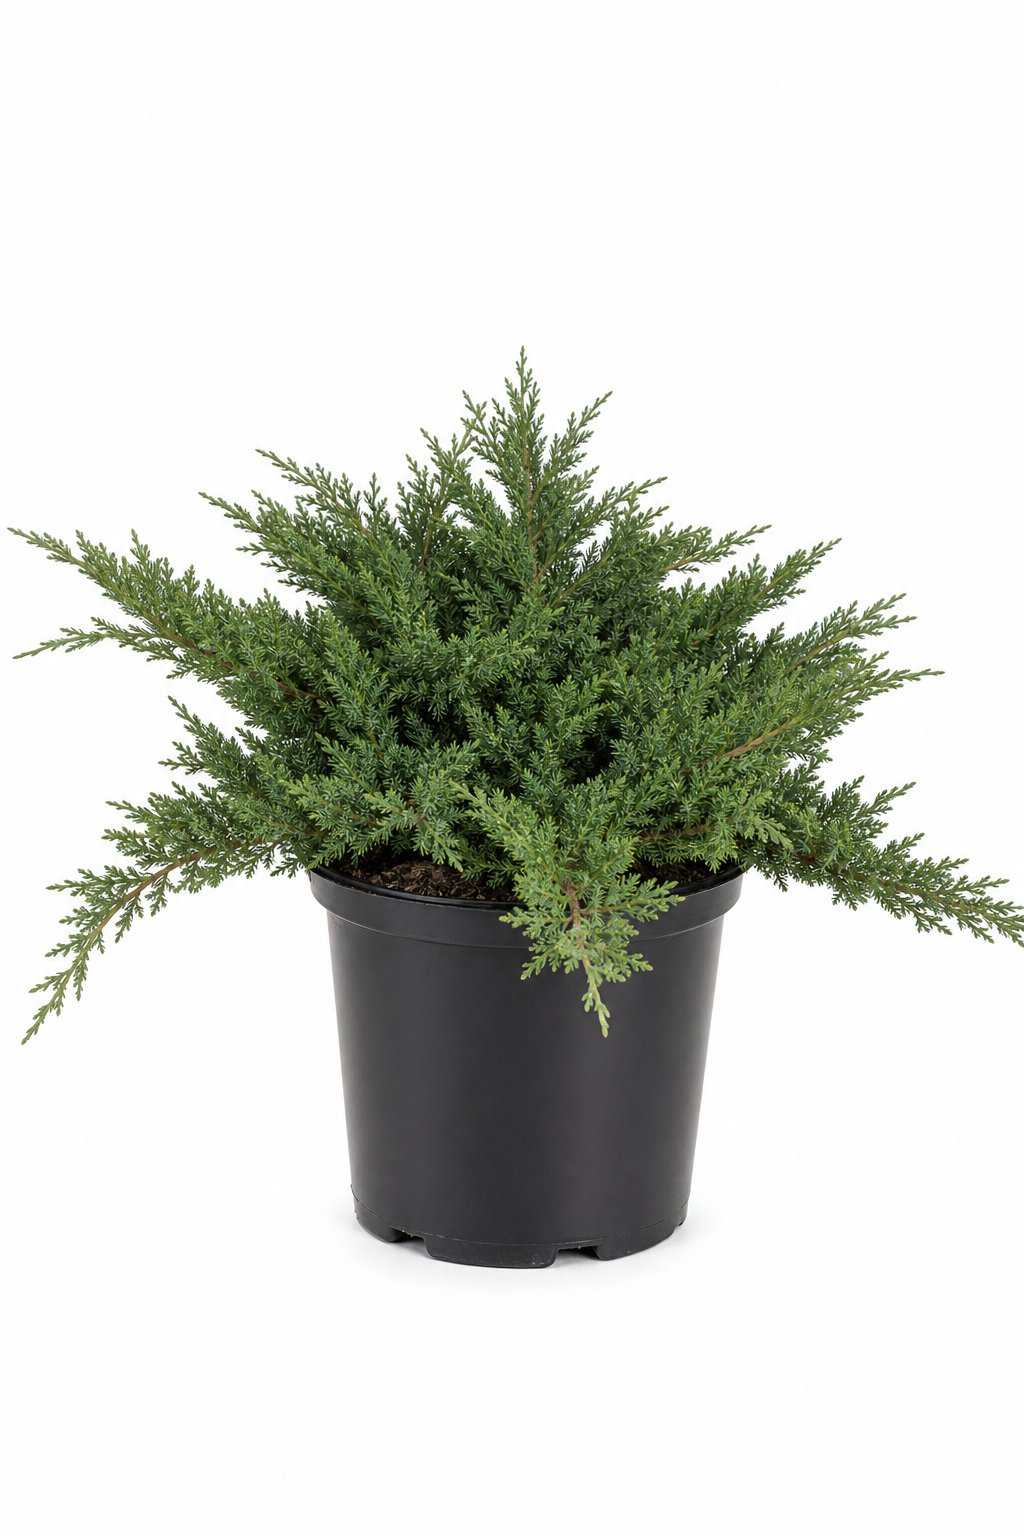
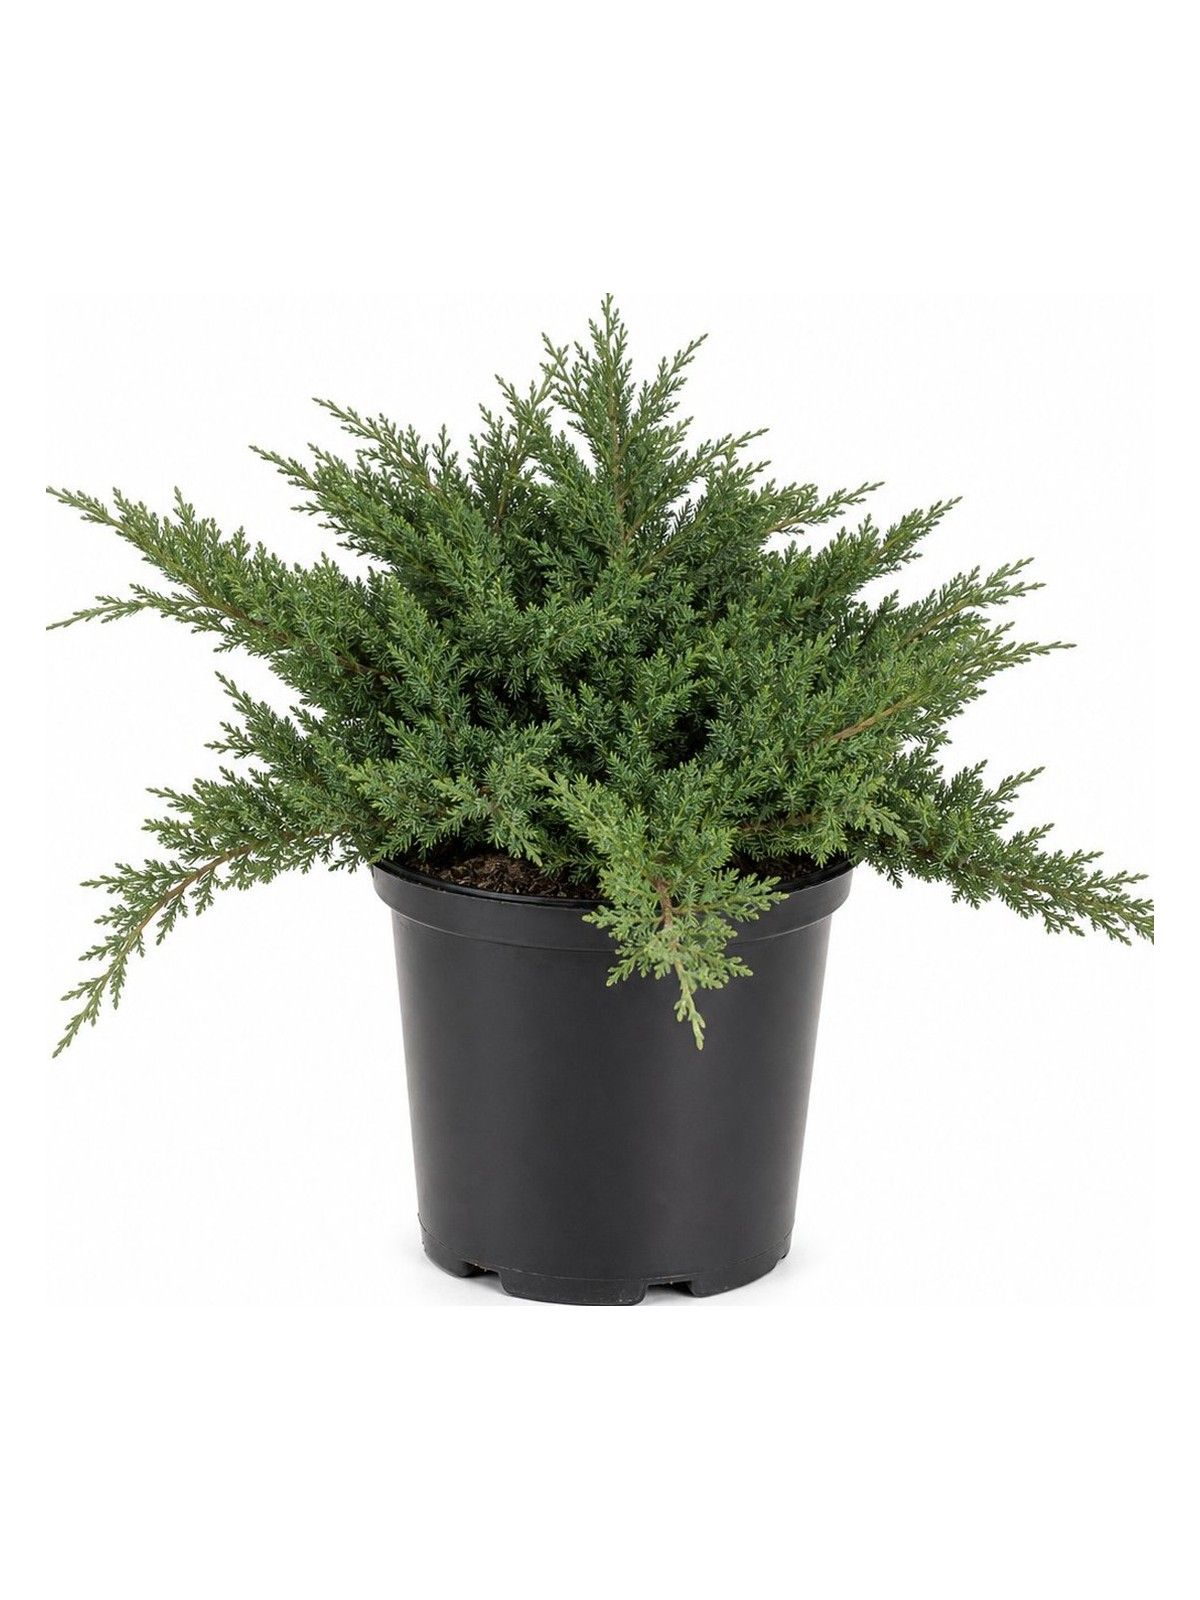
Исправлены фото в каталоге: рамки 3:4, растения больше не обрезаются
- Все фото товаров нормализованы: белые поля обрезаны, растение
  отцентрировано на едином холсте 3:4 (1200x1600)
- Карточка товара: вертикальная рамка 3:4 + object-fit:contain
- Страница товара: главная галерея и миниатюры переведены на 3:4/contain
- Бейдж категории получил тень (виден на белом фоне фото)
- Сетка каталога: 4 колонки на десктопе

Changed region(s): [[0.0, 0.1875, 1.0, 0.8438], [0.0312, 0.2812, 0.0625, 0.3125]]

diff --git a/css/style.css b/css/style.css
@@ -120,13 +120,16 @@ h3{font-size:20px}
 .btn--ghost:hover{background:var(--green);color:#fff}
 
 /* ---------- PRODUCT CARD ---------- */
+/* Фото товаров — на белом фоне, поэтому рамка вертикальная 3:4,
+   а изображение вписывается целиком (contain) и никогда не обрезается */
 .card{display:block;text-align:left;background:#fff;border:1px solid var(--line);border-radius:var(--radius);overflow:hidden;transition:.25s}
 .card:hover{box-shadow:0 16px 40px rgba(17,17,17,.09);transform:translateY(-4px);border-color:#d7ded8}
-.card__img{position:relative;aspect-ratio:4/3;overflow:hidden;background:var(--gray-light)}
-.card__img img{width:100%;height:100%;object-fit:cover;transition:transform .5s}
+.card__img{position:relative;aspect-ratio:3/4;overflow:hidden;background:#fff;border-bottom:1px solid var(--line)}
+.card__img img{width:100%;height:100%;object-fit:contain;transition:transform .5s}
 .card:hover .card__img img{transform:scale(1.05)}
-.card__tag{position:absolute;top:12px;left:12px;background:rgba(255,255,255,.92);color:var(--green);font-size:12px;
-  padding:5px 12px;border-radius:999px;letter-spacing:.06em;text-transform:uppercase;font-weight:600}
+.card__tag{position:absolute;top:12px;left:12px;background:rgba(255,255,255,.94);color:var(--green);font-size:12px;
+  padding:5px 12px;border-radius:999px;letter-spacing:.06em;text-transform:uppercase;font-weight:600;
+  box-shadow:0 2px 10px rgba(17,17,17,.12)}
 .card__body{padding:18px 20px 22px}
 .card__name{font-weight:600;font-size:17px}
 .card__short{color:var(--gray);font-size:14px;margin-top:6px;min-height:20px}
@@ -157,15 +160,15 @@ h3{font-size:20px}
 .toolbar input,.toolbar select{font:inherit;padding:12px 16px;border:1px solid var(--line);border-radius:999px;color:var(--black);background:#fff}
 .toolbar input{min-width:280px}
 .toolbar .count{color:var(--gray);font-size:14px}
-.grid{display:grid;grid-template-columns:repeat(auto-fill,minmax(270px,1fr));gap:28px;margin:34px 0 20px}
+.grid{display:grid;grid-template-columns:repeat(auto-fill,minmax(250px,1fr));gap:24px;margin:34px 0 20px}
 .empty{text-align:center;color:var(--gray);padding:70px 0}
 
 /* ---------- PRODUCT PAGE ---------- */
 .product{display:grid;grid-template-columns:1.1fr 1fr;gap:56px;padding:48px 0 20px}
-.gallery__main{border-radius:var(--radius);overflow:hidden;border:1px solid var(--line);background:var(--gray-light)}
-.gallery__main img{width:100%;aspect-ratio:4/3;object-fit:cover}
+.gallery__main{border-radius:var(--radius);overflow:hidden;border:1px solid var(--line);background:#fff}
+.gallery__main img{width:100%;aspect-ratio:3/4;object-fit:contain}
 .gallery__thumbs{display:flex;gap:12px;margin-top:12px;flex-wrap:wrap}
-.gallery__thumbs img{width:88px;height:66px;object-fit:cover;border-radius:8px;border:2px solid transparent;cursor:pointer}
+.gallery__thumbs img{width:72px;height:96px;object-fit:contain;background:#fff;border-radius:8px;border:2px solid transparent;cursor:pointer}
 .gallery__thumbs img.active{border-color:var(--green)}
 .product__cat{color:var(--gray);text-transform:uppercase;letter-spacing:.14em;font-size:13px}
 .product__title{font-size:clamp(28px,3.4vw,40px);margin:10px 0 14px}
